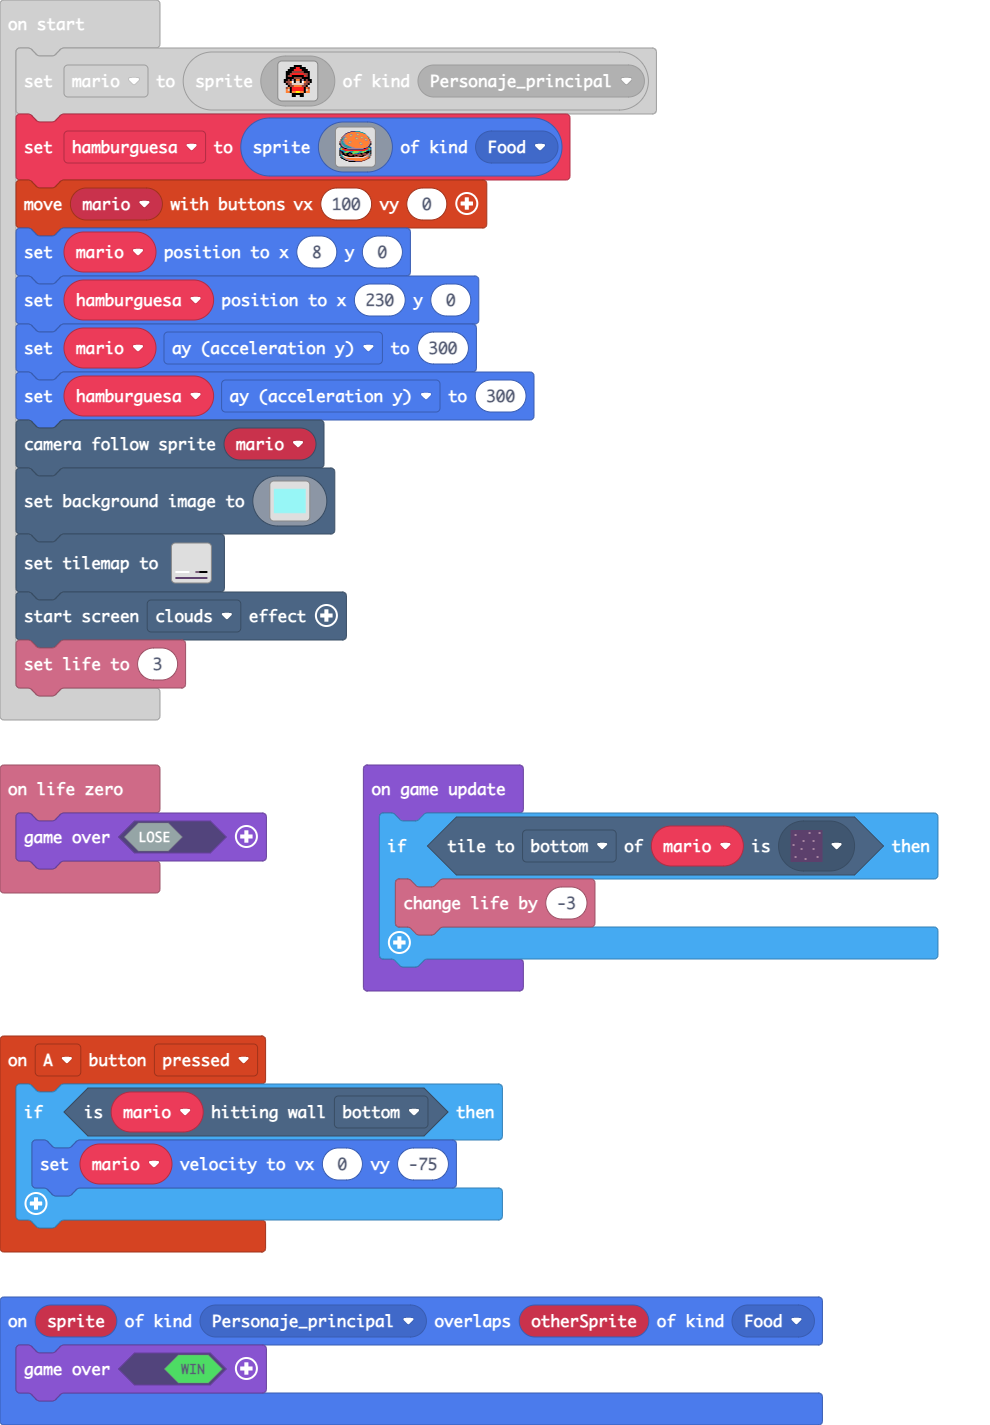
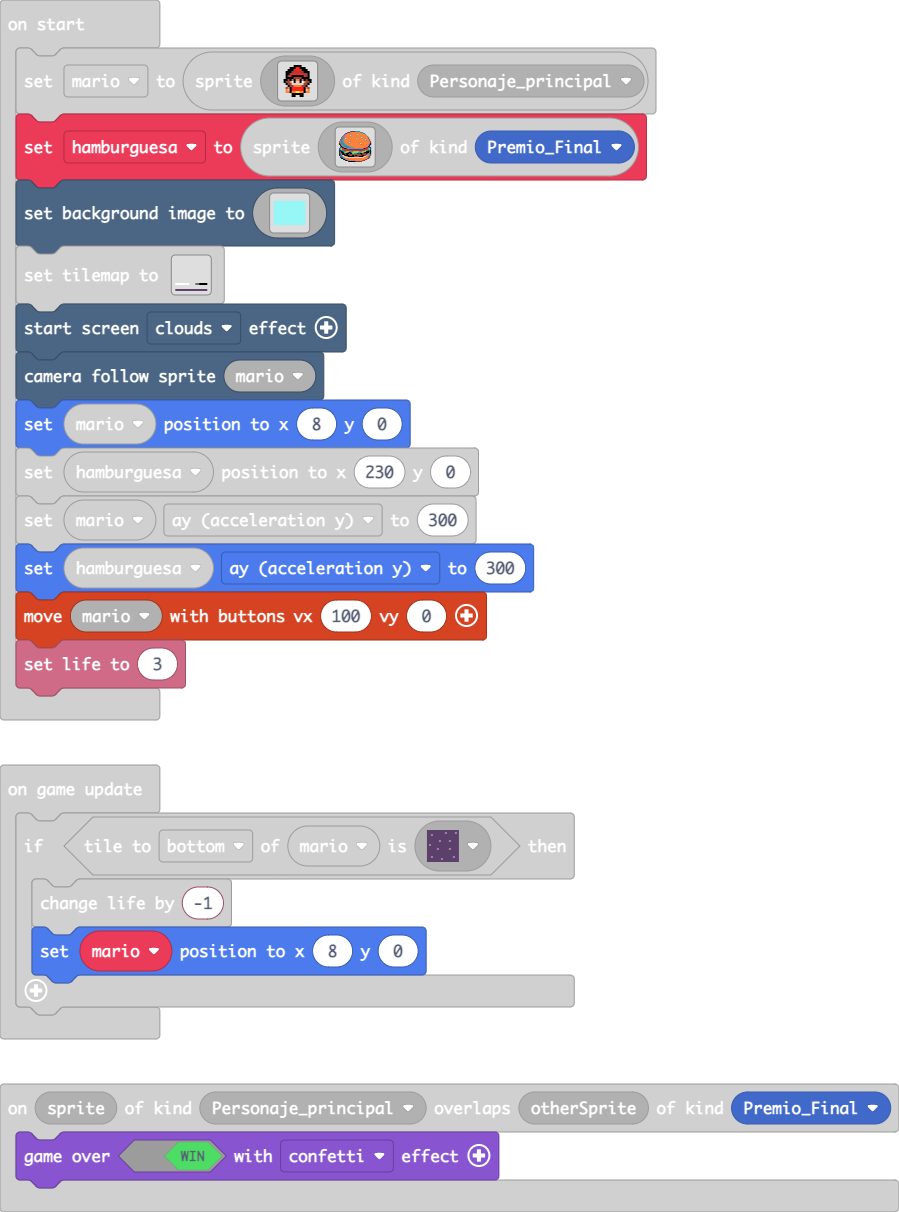
Update main.blocks, main.ts

diff --git a/main.ts b/main.ts
@@ -1,6 +1,10 @@
 namespace SpriteKind {
     export const Personaje_principal = SpriteKind.create()
+    export const Premio_Final = SpriteKind.create()
 }
+sprites.onOverlap(SpriteKind.Personaje_principal, SpriteKind.Premio_Final, function (sprite, otherSprite) {
+    game.over(true, effects.confetti)
+})
 controller.A.onEvent(ControllerButtonEvent.Pressed, function () {
     if (mario.isHittingTile(CollisionDirection.Bottom)) {
         mario.setVelocity(0, -75)
@@ -8,9 +12,6 @@ controller.A.onEvent(ControllerButtonEvent.Pressed, function () {
 })
 info.onLifeZero(function () {
     game.over(false)
-})
-sprites.onOverlap(SpriteKind.Personaje_principal, SpriteKind.Food, function (sprite, otherSprite) {
-    game.over(true)
 })
 let mario: Sprite = null
 mario = sprites.create(img`
@@ -64,13 +65,7 @@ let hamburguesa = sprites.create(img`
     ......ffebbbbbb44444444eee......
     .........fffffffcccccee.........
     ................................
-    `, SpriteKind.Food)
-controller.moveSprite(mario, 100, 0)
-mario.setPosition(8, 0)
-hamburguesa.setPosition(230, 0)
-mario.ay = 300
-hamburguesa.ay = 300
-scene.cameraFollowSprite(mario)
+    `, SpriteKind.Premio_Final)
 scene.setBackgroundImage(img`
     9999999999999999999999999999999999999999999999999999999999999999999999999999999999999999999999999999999999999999999999999999999999999999999999999999999999999999
     9999999999999999999999999999999999999999999999999999999999999999999999999999999999999999999999999999999999999999999999999999999999999999999999999999999999999999
@@ -195,9 +190,16 @@ scene.setBackgroundImage(img`
     `)
 tiles.setTilemap(tilemap`level1`)
 effects.clouds.startScreenEffect()
+scene.cameraFollowSprite(mario)
+mario.setPosition(8, 0)
+hamburguesa.setPosition(230, 0)
+mario.ay = 300
+hamburguesa.ay = 300
+controller.moveSprite(mario, 100, 0)
 info.setLife(3)
 game.onUpdate(function () {
     if (mario.tileKindAt(TileDirection.Bottom, sprites.dungeon.darkGroundCenter)) {
-        info.changeLifeBy(-3)
+        info.changeLifeBy(-1)
+        mario.setPosition(8, 0)
     }
 })
